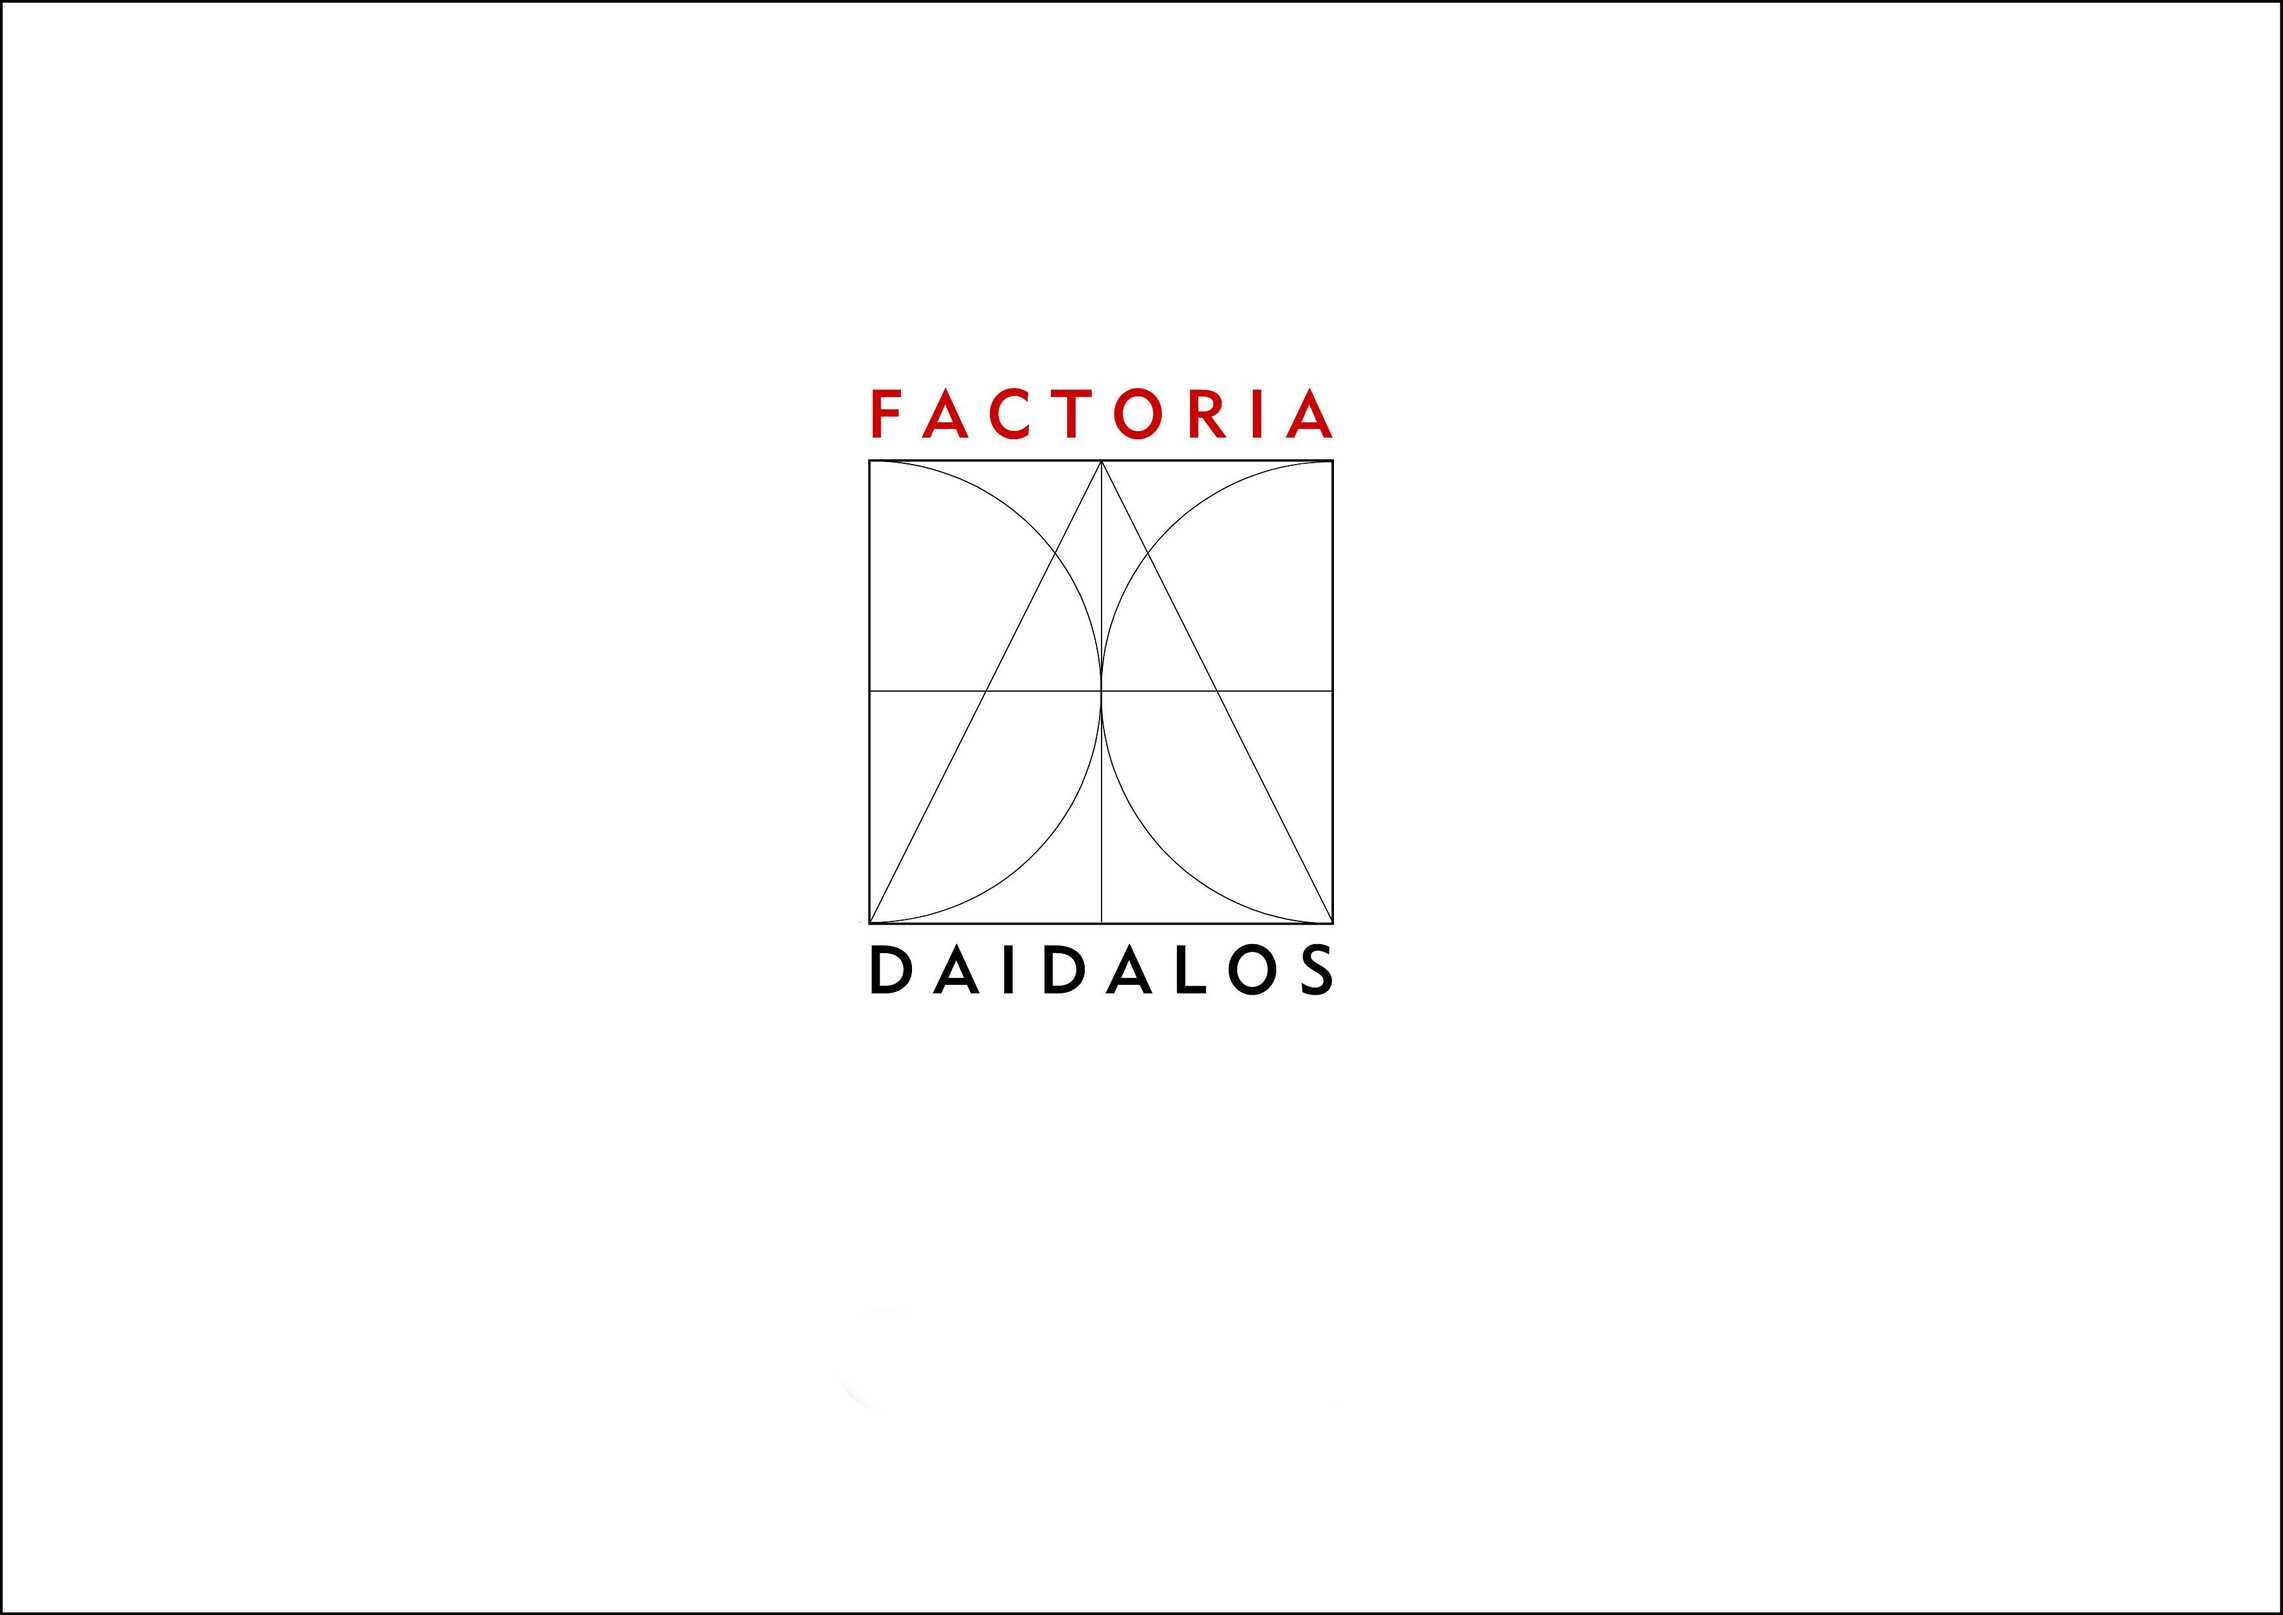
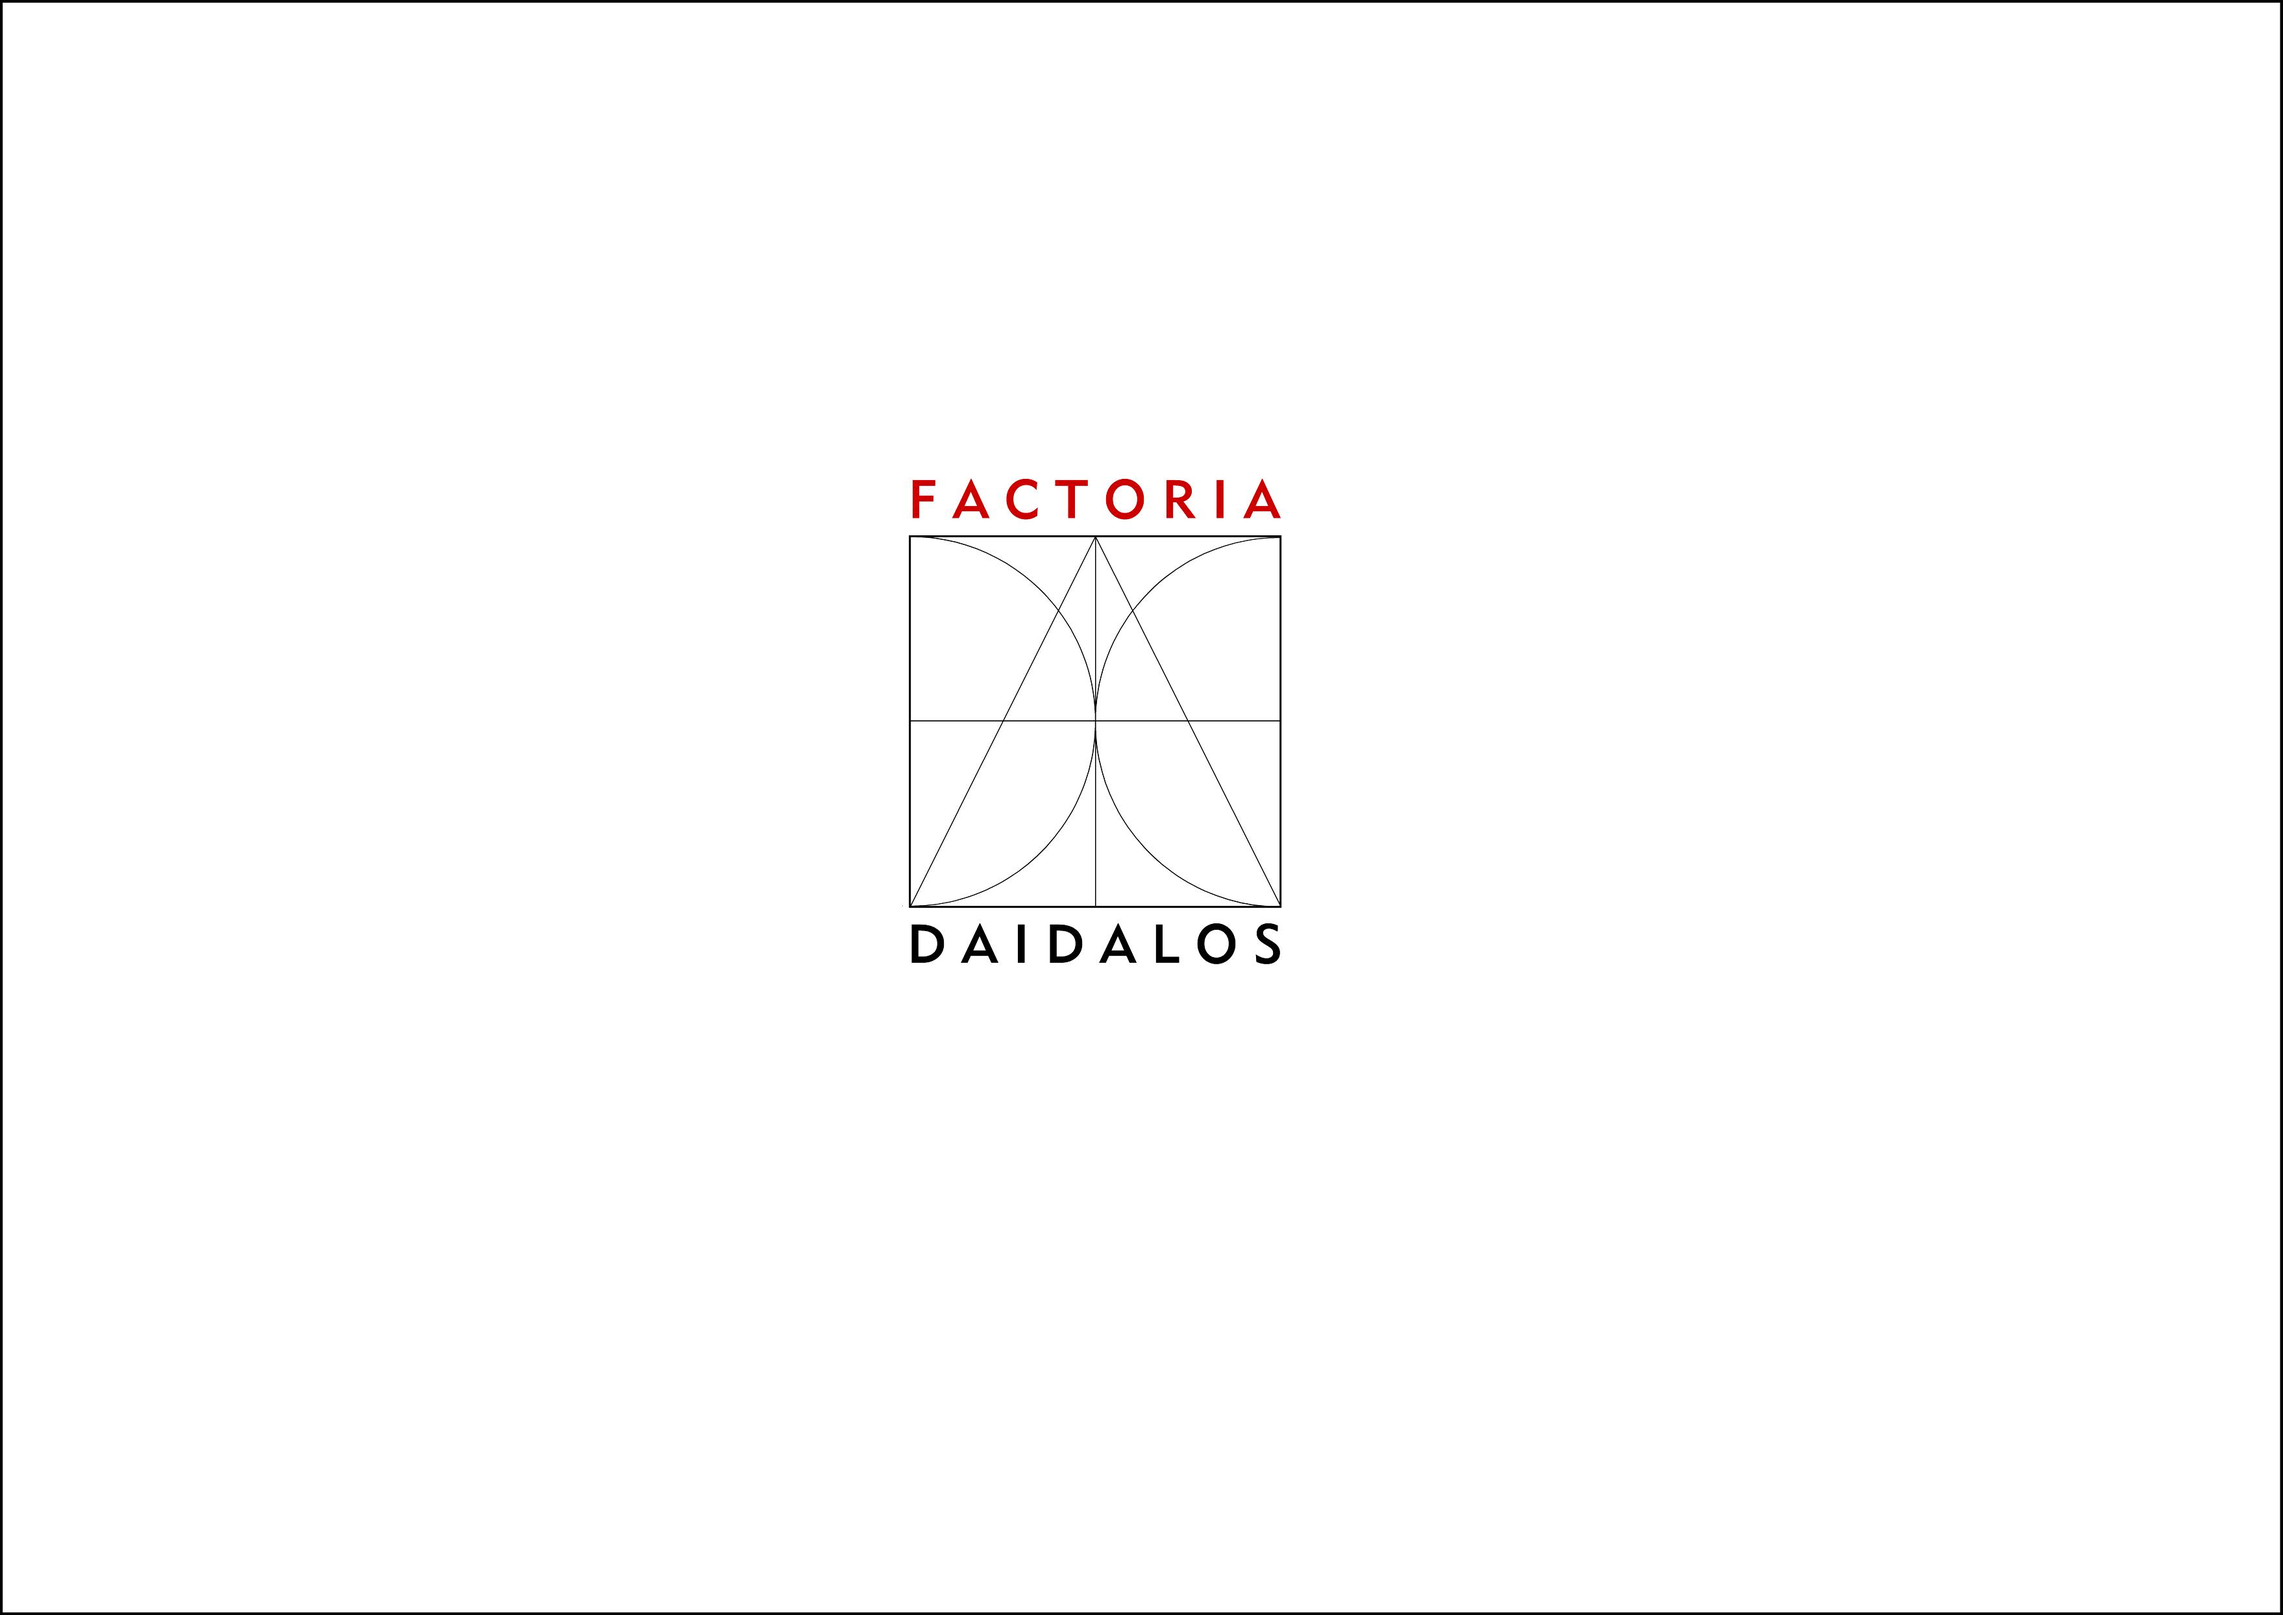
Restore

Changed region(s): [[0.3719, 0.2166, 0.5889, 0.495], [0.3719, 0.5259, 0.5889, 0.6187]]

diff --git a/index.html b/index.html
@@ -53,18 +53,34 @@
     <!-- Header -->
     <header id="top" class="header-daidalos">
 
-      <div class="text-vertical-center">
-          <h1></h1>
-          <h3></h3>
-          <br>
-          <a href="#contact" class="btn btn-daidalos-dark btn-lg">Contacto</a>
-
-      </div>
-
-
 
       <div class="container">
+          <div class="row">
+              <div class="col-lg-10 col-lg-offset-1 text-center">
 
+                  <hr class="small">
+                  <div class="row">
+                      <div class="col-md-4 col-md-offset-4">
+                          <div class="portfolio-item">
+                              <a href="#">
+                                  <img class="img-portfolio img-responsive" src="img/fd.jpg">
+                              </a>
+                          </div>
+                      </div>
+
+                  </div>
+
+
+
+                  <!-- /.row (nested) -->
+                  <a href="#contact" class="btn btn-daidalos-dark btn-lg">Contacto</a>
+                  <br>
+                  <br>
+                  <br>
+              </div>
+              <!-- /.col-lg-10 -->
+          </div>
+          <!-- /.row -->
 
           <div class="row">
               <div class="col-lg-10 col-lg-offset-1 text-center">
